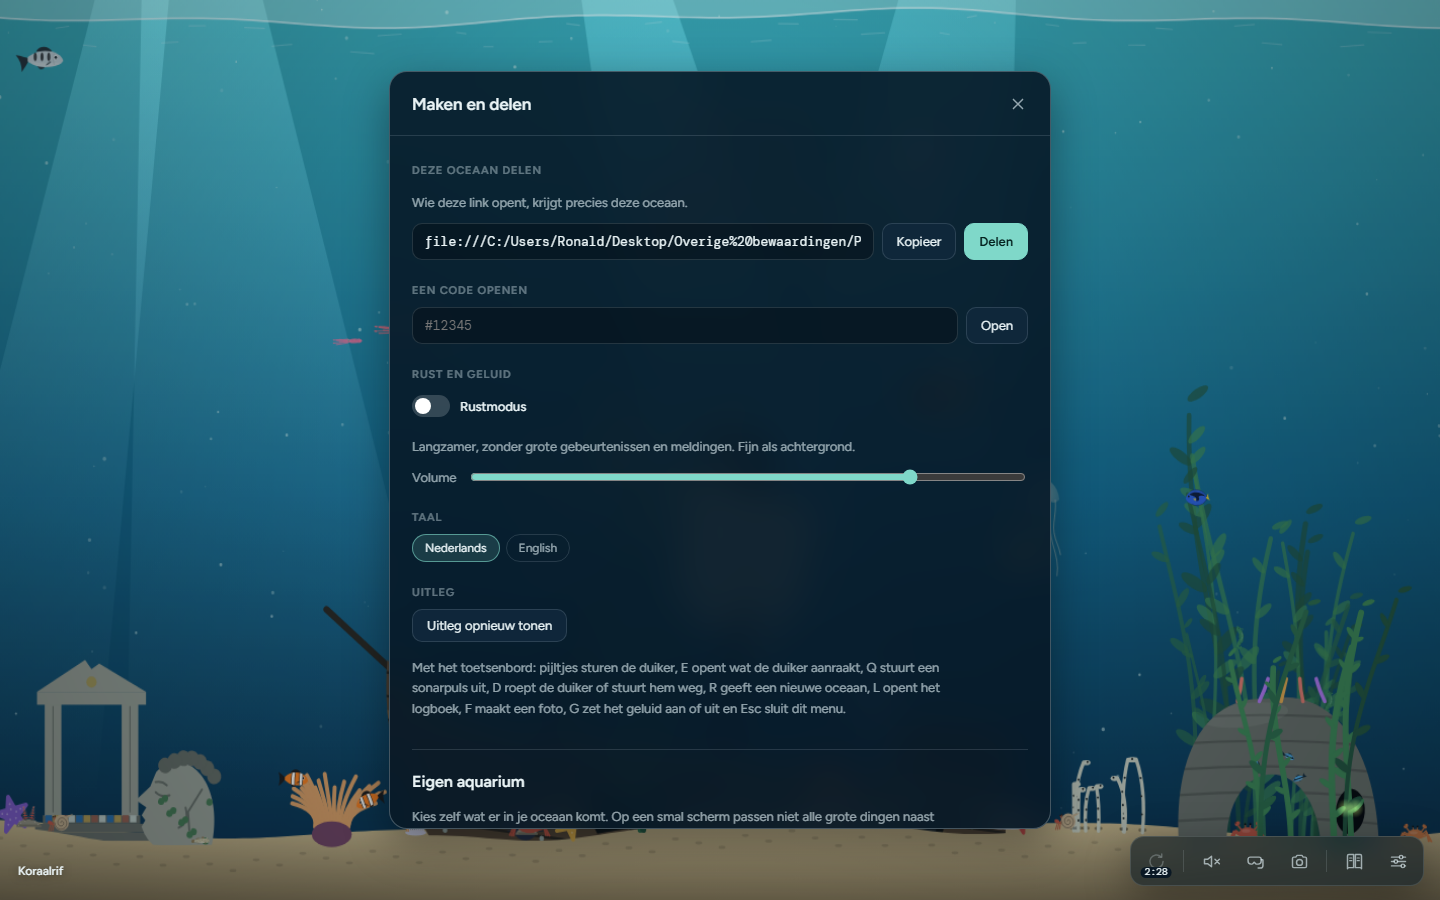
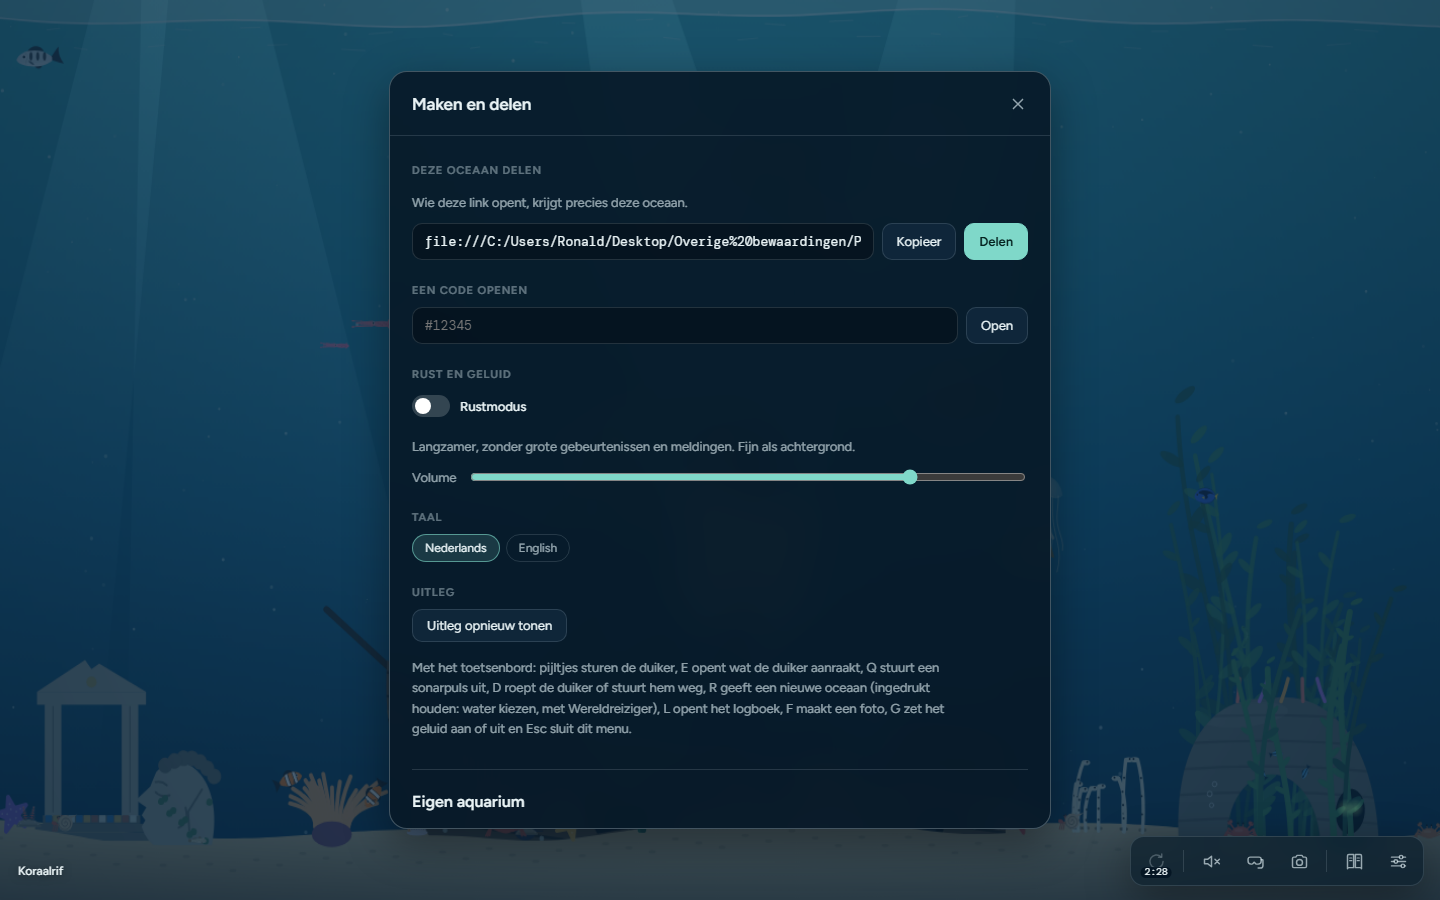
R tikken geeft een willekeurige oceaan, R of de knop ingedrukt houden kiest het water

diff --git a/index.html b/index.html
@@ -1025,7 +1025,7 @@
     shinyTier("s15", "Shinyjager", "Shiny hunter", 15, "shiny's laten een glinsterend spoor achter", "shinies leave a glittering trail"),
     shinyTier("s30", "Shinyverzamelaar", "Shiny collector", 30, "een spoor van sterretjes achter je duiker", "a trail of stars behind your diver"),
     { id: "sall", name: ["Glimmende legende", "Shining legend"], goal: ["alle shiny's", "every shiny"], prog: () => [shinyCount(), SHINY_KEYS.length], reward: ["een gouden duikpak", "a golden diving suit"] },
-    allOf("gw", "Wereldreiziger", "Globetrotter", "Wateren", "wateren", "waters", "zelf het water kiezen bij een nieuwe oceaan", "choosing the water yourself for a new ocean"),
+    allOf("gw", "Wereldreiziger", "Globetrotter", "Wateren", "wateren", "waters", "zelf het water kiezen: houd R of de nieuwe-oceaanknop ingedrukt", "choosing the water yourself: hold down R or the new-ocean button"),
     allOf("ga", "Bioloog", "Biologist", "Dieren", "dieren", "animals", "de wetenschappelijke naam en een extra veldnotitie bij elk dier in je logboek", "the scientific name and an extra field note for every animal in your logbook"),
     { id: "gv", name: ["Gastvrij", "Welcoming host"], goal: [`alle ${VIS_KEYS.length} bezoekers`, `all ${VIS_KEYS.length} visitors`], prog: () => [VIS_KEYS.filter(k => logbook.has(k)).length, VIS_KEYS.length], reward: ["een knop om een bezoeker te roepen (B)", "a button to call a visitor (B)"] },
     allOf("gm", "Oog voor het moment", "Moment catcher", "Momenten", "momenten", "moments", "een knop om een moment op te roepen (M)", "a button to call up a moment (M)"),
@@ -10884,7 +10884,18 @@
     }
     if ((e.key === "e" || e.key === "E") && focusTag !== "INPUT") { e.preventDefault(); if (diverMode) diverInteract(); else diverBtn.click(); return; }
     if ((e.key === "q" || e.key === "Q") && diverMode && focusTag !== "INPUT") { e.preventDefault(); sonarPing(); return; }
-    if ((e.key === "r" || e.key === "R") && focusTag !== "INPUT" && !e.ctrlKey && !e.metaKey && photoView.hidden) { e.preventDefault(); tryNewOcean(); }
+    if ((e.key === "r" || e.key === "R") && focusTag !== "INPUT" && !e.ctrlKey && !e.metaKey && photoView.hidden) {
+      // a tap of R gives a random ocean; holding it down lets you choose the water (with the Globetrotter reward)
+      e.preventDefault();
+      if (e.repeat || rHold) return;
+      rHold = { fired: false, timer: setTimeout(() => { if (rHold) { rHold.fired = true; tryNewOcean(true); } }, HOLD_MS) };
+    }
+  });
+  addEventListener("keyup", e => {
+    if ((e.key !== "r" && e.key !== "R") || !rHold) return;
+    clearTimeout(rHold.timer);
+    if (!rHold.fired) tryNewOcean(false);
+    rHold = null;
   });
 
   addEventListener("hashchange", () => {
@@ -11013,7 +11024,21 @@
   const wait = ms => new Promise(r => setTimeout(r, ms));
 
   // ---- new ocean, diver, menu and photo buttons --------------------------
-  document.getElementById("next").addEventListener("click", tryNewOcean);
+  // R and the new-ocean button: a tap gives a random ocean, holding them down lets you choose the water
+  const HOLD_MS = 450;
+  let rHold = null, btnHold = null;
+  const nextEl = document.getElementById("next");
+  nextEl.addEventListener("pointerdown", () => {
+    clearTimeout(btnHold && btnHold.timer);
+    btnHold = { fired: false, timer: setTimeout(() => { btnHold.fired = true; buzz(20); tryNewOcean(true); }, HOLD_MS) };
+  });
+  for (const ev of ["pointerup", "pointerleave", "pointercancel"]) nextEl.addEventListener(ev, () => { if (btnHold) clearTimeout(btnHold.timer); });
+  nextEl.addEventListener("contextmenu", e => e.preventDefault());
+  nextEl.addEventListener("click", () => {
+    const held = btnHold && btnHold.fired;
+    btnHold = null;
+    if (!held) tryNewOcean(false);
+  });
 
   // A new ocean is on a time lock; every milestone of finds makes the wait shorter: from two and a half minutes down to five seconds (one second with everything found).
   const LOCK_KEY = "oceaan-gewisseld";
@@ -11021,7 +11046,7 @@
   if (!store.get(LOCK_KEY, 0)) store.set(LOCK_KEY, Date.now());
   function lockLeft() { return Math.max(0, store.get(LOCK_KEY, 0) + lockSeconds() * 1000 - Date.now()); }
   function clockText(ms) { const s = Math.ceil(ms / 1000); return `${Math.floor(s / 60)}:${String(s % 60).padStart(2, "0")}`; }
-  function tryNewOcean() {
+  function tryNewOcean(choose) {
     const left = lockLeft();
     if (left > 0) {
       toast(L(`Een nieuwe oceaan kan over ${clockText(left)}. Hoe meer je vindt, hoe korter je wacht: nu elke ${durationText(lockSeconds())}.`,
@@ -11029,7 +11054,11 @@
       buzz(15);
       return;
     }
-    if (rewards.has("gw")) { openWaterPick(); return; }
+    if (choose) {
+      if (rewards.has("gw")) { openWaterPick(); return; }
+      toast(L("Zelf het water kiezen kan met de beloning Wereldreiziger: vind alle wateren.", "Choosing the water yourself comes with the Globetrotter reward: find every water."));
+      return;
+    }
     store.set(LOCK_KEY, Date.now());
     newVariant(randomSeed(), true);
     updateLockBadge();
@@ -11771,7 +11800,7 @@
       </div>
       <h3>${L("Uitleg", "Help")}</h3>
       <div class="row"><button type="button" id="showWelcome">${L("Uitleg opnieuw tonen", "Show the introduction again")}</button></div>
-      <p class="sum">${L("Met het toetsenbord: pijltjes sturen de duiker, E opent wat de duiker aanraakt, Q stuurt een sonarpuls uit, D roept de duiker of stuurt hem weg, R geeft een nieuwe oceaan, L opent het logboek, F maakt een foto, G zet het geluid aan of uit en Esc sluit dit menu.", "With a keyboard: arrow keys steer the diver, E opens what the diver touches, Q sends a sonar ping, D calls or dismisses the diver, R gives a new ocean, L opens the logbook, F takes a photo, G switches sound on or off and Esc closes this menu.")}</p>`;
+      <p class="sum">${L("Met het toetsenbord: pijltjes sturen de duiker, E opent wat de duiker aanraakt, Q stuurt een sonarpuls uit, D roept de duiker of stuurt hem weg, R geeft een nieuwe oceaan (ingedrukt houden: water kiezen, met Wereldreiziger), L opent het logboek, F maakt een foto, G zet het geluid aan of uit en Esc sluit dit menu.", "With a keyboard: arrow keys steer the diver, E opens what the diver touches, Q sends a sonar ping, D calls or dismisses the diver, R gives a new ocean (hold it: choose the water, with Globetrotter), L opens the logbook, F takes a photo, G switches sound on or off and Esc closes this menu.")}</p>`;
   }
 
   function openCode(raw) {
@@ -12773,7 +12802,7 @@
       bar.append(text, btn);
       document.body.appendChild(bar);
     });
-    addEventListener("load", () => navigator.serviceWorker.register("sw.js?v=58").catch(() => {}));
+    addEventListener("load", () => navigator.serviceWorker.register("sw.js?v=59").catch(() => {}));
   }
 </script>
 </body>

diff --git a/src/13-controls.js b/src/13-controls.js
@@ -111,7 +111,18 @@
     }
     if ((e.key === "e" || e.key === "E") && focusTag !== "INPUT") { e.preventDefault(); if (diverMode) diverInteract(); else diverBtn.click(); return; }
     if ((e.key === "q" || e.key === "Q") && diverMode && focusTag !== "INPUT") { e.preventDefault(); sonarPing(); return; }
-    if ((e.key === "r" || e.key === "R") && focusTag !== "INPUT" && !e.ctrlKey && !e.metaKey && photoView.hidden) { e.preventDefault(); tryNewOcean(); }
+    if ((e.key === "r" || e.key === "R") && focusTag !== "INPUT" && !e.ctrlKey && !e.metaKey && photoView.hidden) {
+      // a tap of R gives a random ocean; holding it down lets you choose the water (with the Globetrotter reward)
+      e.preventDefault();
+      if (e.repeat || rHold) return;
+      rHold = { fired: false, timer: setTimeout(() => { if (rHold) { rHold.fired = true; tryNewOcean(true); } }, HOLD_MS) };
+    }
+  });
+  addEventListener("keyup", e => {
+    if ((e.key !== "r" && e.key !== "R") || !rHold) return;
+    clearTimeout(rHold.timer);
+    if (!rHold.fired) tryNewOcean(false);
+    rHold = null;
   });
 
   addEventListener("hashchange", () => {
@@ -240,7 +251,21 @@
   const wait = ms => new Promise(r => setTimeout(r, ms));
 
   // ---- new ocean, diver, menu and photo buttons --------------------------
-  document.getElementById("next").addEventListener("click", tryNewOcean);
+  // R and the new-ocean button: a tap gives a random ocean, holding them down lets you choose the water
+  const HOLD_MS = 450;
+  let rHold = null, btnHold = null;
+  const nextEl = document.getElementById("next");
+  nextEl.addEventListener("pointerdown", () => {
+    clearTimeout(btnHold && btnHold.timer);
+    btnHold = { fired: false, timer: setTimeout(() => { btnHold.fired = true; buzz(20); tryNewOcean(true); }, HOLD_MS) };
+  });
+  for (const ev of ["pointerup", "pointerleave", "pointercancel"]) nextEl.addEventListener(ev, () => { if (btnHold) clearTimeout(btnHold.timer); });
+  nextEl.addEventListener("contextmenu", e => e.preventDefault());
+  nextEl.addEventListener("click", () => {
+    const held = btnHold && btnHold.fired;
+    btnHold = null;
+    if (!held) tryNewOcean(false);
+  });
 
   // A new ocean is on a time lock; every milestone of finds makes the wait shorter: from two and a half minutes down to five seconds (one second with everything found).
   const LOCK_KEY = "oceaan-gewisseld";
@@ -248,7 +273,7 @@
   if (!store.get(LOCK_KEY, 0)) store.set(LOCK_KEY, Date.now());
   function lockLeft() { return Math.max(0, store.get(LOCK_KEY, 0) + lockSeconds() * 1000 - Date.now()); }
   function clockText(ms) { const s = Math.ceil(ms / 1000); return `${Math.floor(s / 60)}:${String(s % 60).padStart(2, "0")}`; }
-  function tryNewOcean() {
+  function tryNewOcean(choose) {
     const left = lockLeft();
     if (left > 0) {
       toast(L(`Een nieuwe oceaan kan over ${clockText(left)}. Hoe meer je vindt, hoe korter je wacht: nu elke ${durationText(lockSeconds())}.`,
@@ -256,7 +281,11 @@
       buzz(15);
       return;
     }
-    if (rewards.has("gw")) { openWaterPick(); return; }
+    if (choose) {
+      if (rewards.has("gw")) { openWaterPick(); return; }
+      toast(L("Zelf het water kiezen kan met de beloning Wereldreiziger: vind alle wateren.", "Choosing the water yourself comes with the Globetrotter reward: find every water."));
+      return;
+    }
     store.set(LOCK_KEY, Date.now());
     newVariant(randomSeed(), true);
     updateLockBadge();

diff --git a/src/01-basis.js b/src/01-basis.js
@@ -531,7 +531,7 @@
     shinyTier("s15", "Shinyjager", "Shiny hunter", 15, "shiny's laten een glinsterend spoor achter", "shinies leave a glittering trail"),
     shinyTier("s30", "Shinyverzamelaar", "Shiny collector", 30, "een spoor van sterretjes achter je duiker", "a trail of stars behind your diver"),
     { id: "sall", name: ["Glimmende legende", "Shining legend"], goal: ["alle shiny's", "every shiny"], prog: () => [shinyCount(), SHINY_KEYS.length], reward: ["een gouden duikpak", "a golden diving suit"] },
-    allOf("gw", "Wereldreiziger", "Globetrotter", "Wateren", "wateren", "waters", "zelf het water kiezen bij een nieuwe oceaan", "choosing the water yourself for a new ocean"),
+    allOf("gw", "Wereldreiziger", "Globetrotter", "Wateren", "wateren", "waters", "zelf het water kiezen: houd R of de nieuwe-oceaanknop ingedrukt", "choosing the water yourself: hold down R or the new-ocean button"),
     allOf("ga", "Bioloog", "Biologist", "Dieren", "dieren", "animals", "de wetenschappelijke naam en een extra veldnotitie bij elk dier in je logboek", "the scientific name and an extra field note for every animal in your logbook"),
     { id: "gv", name: ["Gastvrij", "Welcoming host"], goal: [`alle ${VIS_KEYS.length} bezoekers`, `all ${VIS_KEYS.length} visitors`], prog: () => [VIS_KEYS.filter(k => logbook.has(k)).length, VIS_KEYS.length], reward: ["een knop om een bezoeker te roepen (B)", "a button to call a visitor (B)"] },
     allOf("gm", "Oog voor het moment", "Moment catcher", "Momenten", "momenten", "moments", "een knop om een moment op te roepen (M)", "a button to call up a moment (M)"),

diff --git a/src/14-logbook-and-menu.js b/src/14-logbook-and-menu.js
@@ -542,7 +542,7 @@
       </div>
       <h3>${L("Uitleg", "Help")}</h3>
       <div class="row"><button type="button" id="showWelcome">${L("Uitleg opnieuw tonen", "Show the introduction again")}</button></div>
-      <p class="sum">${L("Met het toetsenbord: pijltjes sturen de duiker, E opent wat de duiker aanraakt, Q stuurt een sonarpuls uit, D roept de duiker of stuurt hem weg, R geeft een nieuwe oceaan, L opent het logboek, F maakt een foto, G zet het geluid aan of uit en Esc sluit dit menu.", "With a keyboard: arrow keys steer the diver, E opens what the diver touches, Q sends a sonar ping, D calls or dismisses the diver, R gives a new ocean, L opens the logbook, F takes a photo, G switches sound on or off and Esc closes this menu.")}</p>`;
+      <p class="sum">${L("Met het toetsenbord: pijltjes sturen de duiker, E opent wat de duiker aanraakt, Q stuurt een sonarpuls uit, D roept de duiker of stuurt hem weg, R geeft een nieuwe oceaan (ingedrukt houden: water kiezen, met Wereldreiziger), L opent het logboek, F maakt een foto, G zet het geluid aan of uit en Esc sluit dit menu.", "With a keyboard: arrow keys steer the diver, E opens what the diver touches, Q sends a sonar ping, D calls or dismisses the diver, R gives a new ocean (hold it: choose the water, with Globetrotter), L opens the logbook, F takes a photo, G switches sound on or off and Esc closes this menu.")}</p>`;
   }
 
   function openCode(raw) {

diff --git a/sw.js b/sw.js
@@ -1,5 +1,5 @@
 // Service worker: maakt de oceaan installeerbaar en speelbaar zonder internet.
-const VERSION = "v58";
+const VERSION = "v59";
 const SHELL = `oceaan-shell-${VERSION}`;
 const FONTS = "oceaan-fonts-1";
 const SHELL_FILES = ["./", "index.html", "manifest.webmanifest", "icons/icon-192.png", "icons/icon-512.png", "icons/apple-touch-icon.png"];

diff --git a/README.md b/README.md
@@ -12,7 +12,7 @@ Speel online op **https://ronaldsteenkamp.github.io/oceaan/**. Op je telefoon ku
 - Tik op een schatkist, een fles, een reuzenschelp of een verstopt zeepaardje. Tik op de zoekopdracht bovenin voor uitleg.
 - Het boekje onderaan is je logboek. Onder "Maken en delen" bouw je je eigen aquarium en deel je je oceaan.
 - Met de duiker zoek je met de sonarknop (of Q) naar iets zeldzaams: een gouden echo wijst de richting.
-- Met een toetsenbord: pijltjes sturen de duiker, E roept de duiker en opent wat hij aanraakt, Q stuurt een sonarpuls uit, L opent het logboek, F maakt een foto, G zet het geluid aan of uit, R geeft een nieuwe oceaan.
+- Met een toetsenbord: pijltjes sturen de duiker, E roept de duiker en opent wat hij aanraakt, Q stuurt een sonarpuls uit, L opent het logboek, F maakt een foto, G zet het geluid aan of uit, R geeft een nieuwe oceaan (ingedrukt houden: zelf het water kiezen, met de beloning Wereldreiziger).
 
 ## Hoe het in elkaar zit
 
